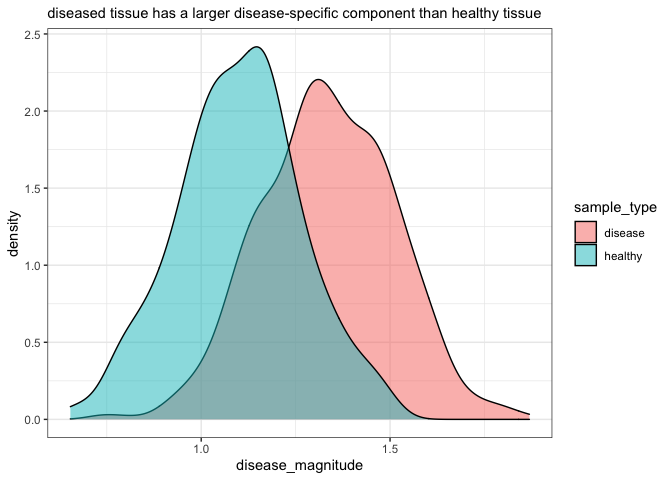
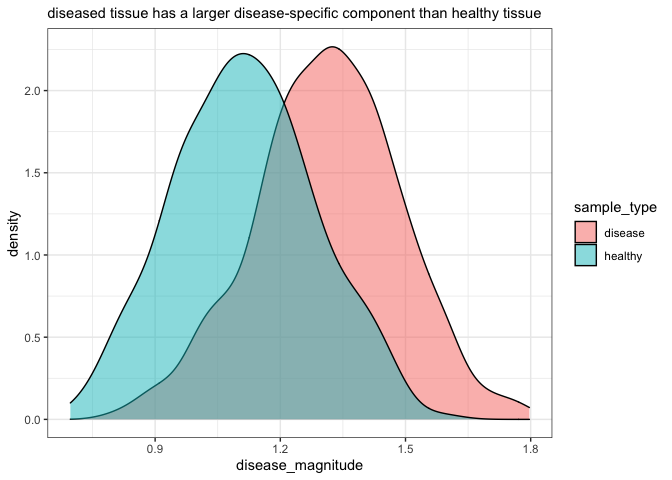
update readme

diff --git a/README.md b/README.md
@@ -63,12 +63,12 @@ head(disease_projection)
 #> # A tibble: 6 × 80
 #>   V1_lineage V2_lineage V3_lin…¹ V4_li…² V5_li…³ V6_li…⁴ V7_li…⁵ V8_li…⁶ V9_li…⁷
 #>        <dbl>      <dbl>    <dbl>   <dbl>   <dbl>   <dbl>   <dbl>   <dbl>   <dbl>
-#> 1       1.31       1.46     1.13    1.54    1.39    1.11    1.34    1.10    1.74
-#> 2       1.57       1.30     1.50    1.35    1.52    1.61    1.43    1.65    1.74
-#> 3       1.58       1.35     1.34    1.66    1.54    1.36    1.27    1.26    1.67
-#> 4       1.25       1.16     1.62    1.56    1.50    1.54    1.30    1.51    1.57
-#> 5       1.64       1.27     1.64    1.54    1.65    1.97    1.15    1.55    1.52
-#> 6       1.88       1.48     1.67    1.27    1.80    1.55    1.36    1.49    1.84
+#> 1       1.71       1.43     1.54    1.62    1.39    1.53    1.52    1.28    1.57
+#> 2       1.59       1.58     1.27    1.78    1.43    1.36    1.38    1.64    1.68
+#> 3       1.17       1.29     1.78    1.66    1.50    1.85    1.38    1.08    1.51
+#> 4       1.33       1.54     1.82    1.29    1.37    1.54    1.50    1.37    1.53
+#> 5       1.20       1.57     1.69    1.61    1.52    1.59    1.35    1.58    1.36
+#> 6       1.71       1.55     1.32    1.15    1.58    1.61    1.68    1.49    1.59
 #> # … with 71 more variables: V10_lineage <dbl>, V11_lineage <dbl>,
 #> #   V12_lineage <dbl>, V13_lineage <dbl>, V14_lineage <dbl>, V15_lineage <dbl>,
 #> #   V16_lineage <dbl>, V17_lineage <dbl>, V18_lineage <dbl>, V19_lineage <dbl>,
@@ -90,12 +90,12 @@ disease_projection |>
 #> # A tibble: 6 × 3
 #>   lineage_magnitude disease_magnitude total_magnitude
 #>               <dbl>             <dbl>           <dbl>
-#> 1              8.63              1.29            8.72
-#> 2              9.52              1.26            9.60
-#> 3              9.03              1.24            9.12
-#> 4              9.84              1.49            9.95
-#> 5              9.51              1.27            9.59
-#> 6              9.62              1.36            9.72
+#> 1              9.65              1.58            9.78
+#> 2              9.69              1.44            9.80
+#> 3              9.72              1.74            9.88
+#> 4              9.58              1.01            9.64
+#> 5              9.53              1.16            9.60
+#> 6              9.21              1.44            9.32
 ```
 
 We can compare the disease-specific component of the healthy data and
@@ -112,10 +112,12 @@ healthy_magnitudes <-
   healthy_projection |> 
   marx_find_magnitudes()
 
+# find disease magnitudes
 disease_magnitudes <- 
   disease_projection |> 
   marx_find_magnitudes()
 
+# make a simple density plot
 plot_tibble <- 
   dplyr::bind_rows(
     dplyr::mutate(healthy_magnitudes, sample_type = "healthy"), 
